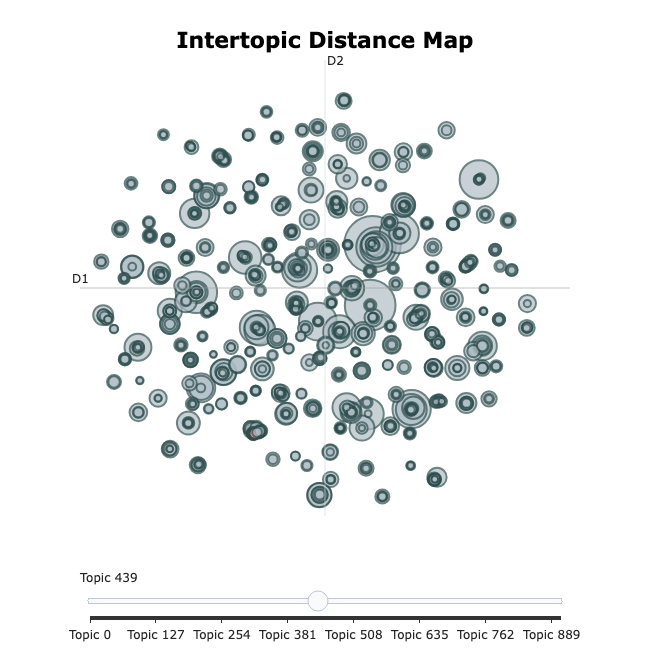
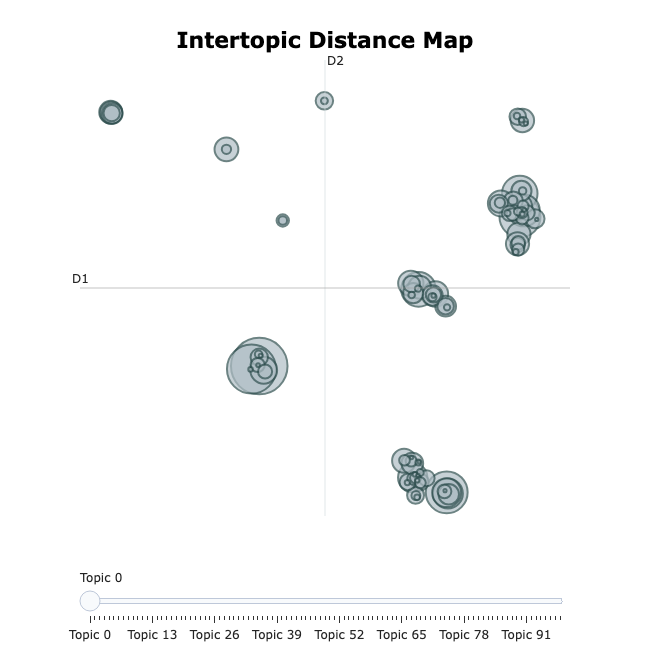
WIP: work on topic modelling.

diff --git a/episodes/02-word_representations.md b/episodes/02-word_representations.md
@@ -652,14 +652,16 @@ While Word2vec models typically perform better with large datasets containing mi
 
 ## Topic Modelling
 
-### What is a Topic?
 
 Another perspective on exploring a document collection is topic modelling.
 This approach aims to discover which topics occur in these documents, bot.
 
-A proper linguistic definition of the abstract concept of _topic_ is difficult because "what is being talked about" in a sentence or a document is not fully represented through specific words, but is _latent_ through context and interpretation.
+### What is a Topic?
 
-In this context, however, a topic is typically represented as a weighted list of _words_ like this:
+A proper linguistic definition of the abstract concept of _topic_ is difficult.
+The definition of "what is being talked about" in a sentence or a paragraph is not fully represented through specific words, but is subject to broader context and interpretation.
+
+For the sake of modelling, however, a topic is typically represented as a weighted list of _words_ like this:
 
 | Topic 1 | Topic 2 | Topic ... |
 | ------- | ------- | --- |
@@ -667,7 +669,7 @@ In this context, however, a topic is typically represented as a weighted list of
 | dog     | car     | ... |
 | ...     | ...     | ... |
 
-A document, on the other hand, is represented as a weighted list of _topics_, for instance:
+A text, on the other hand, is represented as a weighted list of _topics_, for instance:
 
 | Document 1 | Document 2 | Document ... |
 | ---------- | ---------- | ------------ |
@@ -675,20 +677,31 @@ A document, on the other hand, is represented as a weighted list of _topics_, fo
 | Topic 1    | Topic 3    | ... |
 | Topic 2    | Topic 5    | ... |
 
+The term `document` is equally under-specified in this context.
+A topic model typically uses sentences or paragraphs to approximate topics.
+This is partly due to computational constraints: processing longer documents requires significantly more processing power and memory.
+
+Another benefit of smaller text units come from linguistic insights: topics tend to be most consistent on the level of sentences or paragraphs, while they vary throughout a longer text.
+While topic models do allow for texts to convey multiple topics, a model learns best if the topics are separated from each other as clearly as possible.
+
 ::: callout
 
 ### Unsupervised Learning and Self-Supervised Learning
 
-In machine learning terminology, Topic Modelling algorithms apply _Unsupervised Learning_ because they do not rely on any human annotations about the data.
-Instead, they form _clusters_ by grouping similar data together.
-Algorithms differ in how they measure similarity and how they form clusters.
+In machine learning terminology, topic modelling algorithms apply _unsupervised learning_:
+they do not rely on any human annotations about the data that could be used to _supervise_ the modelling process.
+Instead, topic modelling forms _clusters_ of data points by grouping similar documents together.
+
+Algorithms widely differ in how they measure similarity and how they form clusters.
+Regardless, topic modelling algorithms have been applied in domains unrelated to linguistics, like [biological](https://link.springer.com/article/10.1007/s10661-025-14291-0) and [climate research](https://cnrs.hal.science/hal-04484617v1/file/Article_CMIP6_LDA-2.pdf).
 
 :::
 
 ### Model Training
 
-There are various implementations of topic modelling, such as LDA (_Latent Dirichlet Allocation_).
-It represents both topics and documents as probability distributions across words and topics respectively, based on word co-ocurrences in the training data.
+There are various implementations of topic modelling.
+Before modern language models were available, models based on word co-occurrences were dominant, most prominently as LDA (_Latent Dirichlet Allocation_).
+It represents both topics and documents as probability distributions across words and topics respectively, based on word frequencies and distributions in the training data.
 
 ::: callout
 
@@ -705,9 +718,10 @@ As opposed to count-based models, the underlying language models generate word r
 
 :::
 
-An approach that makes use of BERT (or other) language models is [BERTopic](https://maartengr.github.io/BERTopic/index.html) that has been installed as part of the [setup instructions](../learners/setup.md).
+[BERTopic](https://maartengr.github.io/BERTopic/index.html) (installed during this lesson's [setup](../learners/setup.md)), on the other hand, makes use of language models like BERT, that have been trained independently of the document collection at hand.
+Language models can provide contextual knowledge that is not explicit in a specific document collection and therefore leads to better results in most cases.
 
-We build our first topic model on the same data as above, hence we can reuse the preprocessed data:
+To build our first topic model on the same data as above, we reuse the preprocessed data:
 
 ```python
 DATA_DIR = Path("data")
@@ -717,19 +731,22 @@ sentences = [line.strip() for line in open(PROCESSED_FILE, 'r')]
 sentences[:5]
 ```
 
-Initialize and train the the topic model.
-This step will take a few minutes; it downloads a language model and will train the topic model:
+### Train a Topic Model
+
+The following commands initialize a `BERTopic` object and train it.
+Before the first training run, it downloads the language model; this and the training itself will take a few minutes.
 
 ```python
 from bertopic import BERTopic
 
-N_SENTENCES = 1000
+# TODO: determine good number based on full data
+N_SENTENCES = 100000
 
-topic_model = BERTopic()
-topics, probs = topic_model.fit_transform(sentences[:1000])
+topic_model = BERTopic(nr_topics=100)
+topics, probs = topic_model.fit_transform(sentences[:N_SENTENCES])
 
 Loading weights: 100%|██████████| 103/103 [00:00<00:00, 7405.86it/s]
-BertModel LOAD REPORT[0m from: sentence-transformers/all-MiniLM-L6-v2
+BertModel LOAD REPORT from: sentence-transformers/all-MiniLM-L6-v2
 Key                     | Status     |  | 
 ------------------------+------------+--+-
 embeddings.position_ids | UNEXPECTED |  | 
@@ -738,20 +755,31 @@ Notes:
 - UNEXPECTED:	can be ignored when loading from different task/architecture; not ok if you expect identical arch.
 ```
 
-Now check the number of distinct topics the algorithm has identified:
+The `nr_topics=100` argument above is not strictly needed.
+We use it in this example to keep the output manageable, because without the default settings result in approximately 900 different topics on this dataset.
+
+Output the topics that the algorithm has identified:
 
 ```python
 topic_model.get_topic_info()
 
 	Topic	Count	Name	Representation	Representative_Docs
-0	-1	21717	-1_light_face_carrie_room	[light, face, carrie, room, life, eyes, little...	[happened fine sense near view begun pay, true...
-1	0	792	0_mary_mistress_deborah_contrary	[mary, mistress, deborah, contrary, india, sai...	[said mary, said mary, mary mary mary]
-2	1	636	1_ship_boat_sea_captain	[ship, boat, sea, captain, hispaniola, island,...	[stockade narrative continued doctor ship aban...
-...
-906	905	10	905_wanted_wants_sure_thing	[wanted, wants, sure, thing, oh, , , , , ]	[wanted, wanted, wanted]
+0	-1	21788	-1_eyes_little_time_man	[eyes, little, time, man, like, face, life, ro...	[good man true seen better man, young man mome...
+1	0	2968	0_mary_gloria_edna_miss	[mary, gloria, edna, miss, madame, gostrey, ma...	[gloria, mary, said mary]
+2	1	2124	1_dorian_henry_colin_ralph	[dorian, henry, colin, ralph, lord, denham, ro...	[lord henry looked table, know answered lord h...
+3	2	2077	2_yes_oh_ah_eh	[yes, oh, ah, eh, glad, right, better, god, su...	[oh yes, oh yes, oh yes]
+4	3	1625	3_katharine_carrie_cassandra_said	[katharine, carrie, cassandra, said, william, ...	[think katharine, katharine, katharine]
+...	...	...	...	...	...
+95	94	16	94_isabella_prison_quadroon_sold	[isabella, prison, quadroon, sold, previous, u...	[immediately took daughter aside informed prev...
+96	95	12	95_foreman_workshop_ogre_motioning	[foreman, workshop, ogre, motioning, gait, bar...	[head foreman round stopped machine, foreman, ...
+97	96	12	96_ames_superiority_funniest_thorne	[ames, superiority, funniest, thorne, dora, sa...	[going asked ames, said ames, ames]
+98	97	11	97_clatter_bang_scatter_crash	[clatter, bang, scatter, crash, lads, dogs, fi...	[clatter clatter clatter bang, clatter clatter...
+99	98	11	98_entanglement_ensue_faithlessness_repugnant	[entanglement, ensue, faithlessness, repugnant...	[entanglement carrie anxious change sort, carr...
 ```
 
-The number of topics should be approximately the same (906), but probably appear in a different order.
+Due to the random initialization, the topic modelling algorithm is not entirely deterministic.
+Therefore, the exact ordering and representations of the topics can be slightly different for each run.
+
 For each topic, you see:
 
 1. `Count`: the number of topics in which this topic is prevalent
@@ -759,7 +787,9 @@ For each topic, you see:
 3. `Representation`: a list of the topic's most representative words
 4. `Representative_Docs`: the topic's three most representative documents from the training data.
 
-The first topic (-1) is a special case: the algorithms gathers outliers that it could not fit into any of the other topics. It is the most frequent topic in most text collections, and its representative words are typically a list of unconnected words.
+The first topic (`-1`) is a special case: the algorithms gathers outliers that it could not fit into any of the other topics. It is the most frequent topic in most text collections, and its representative words are typically a list of unconnected words.
+
+### Visualization and Interpretation
 
 The following command generates an interactive graph that visualizes the sizes and the relations between the topics:
 
@@ -769,27 +799,42 @@ topic_model.visualize_topics()
 
 ![](fig/02-topics.png)
 
-During the model training, all instances from the data have been assigned to a topic distribution.
-But you can also apply the model on previously unseen texts and assign a topic distribution to them:
+This command visualizes the hierarchical relations between topics:
 
 ```python
-topic, prob = topic_model.transform(["A text about gloves."])
-print(topic, prob)
-[3] [1.]
+topic_model.visualize_hierarchy()
 ```
 
-This example was assigned to topic 3, with a probability of 1.0.
+![](fig/02-topics-hierarchy.png)
 
-Topic modelling works on the words and their immediate context.
-However, you will notice that they do not always perfectly reflect all aspects of your collection, your research questions, or broader knowledge.
-Therefore, BERTopic allows you to manually refine the topics it has created.
-
-A common case is that multiple topics represent very similar underlying concepts with different words.
-You can merge such topics by specifying their topic indices:
+To find topics that are associated to a particular term, use the `.find_topics()` method:
 
 ```python
-topic_model.merge_topics(sentences, [161, 29])
+topics, probs = topic_model.find_topics("sea")
+print(topics)
 ```
+
+Visualize the terms of the topics found:
+```python
+topic_model.visualize_barchart(topics)
+```
+
+![](fig/02-topics-sea.png)
+
+During the model training, all texts in the data have been assigned to a topic distribution.
+You can also use the model to infer the topics of previously unseen texts based on the same model:
+
+```python
+topics, probs = topic_model.transform(["A short text about scientific discoveries"])
+print(topics, probs)
+[31] [0.47929027]
+```
+
+This example was assigned to topic 31, with a probability of 0.479.
+Again, these numbers will be slightly different per run.
+The model can even assign multiple topics to a text, the `topics` and `probs` lists contain the according number of values.
+
+
 
 ::: challenge
 
@@ -813,31 +858,43 @@ TODO
 ### Step by Step
 
 BERTopic follows a recipe of pre-defined steps.
-Each of them is variable and impacts the eventual outcomes. Therefore, it provides reasonable defaults that might or might not be optimal for your use case.
+Each of them is variable and impacts the eventual outcomes.
+The package provides reasonable defaults that typically provide a good starting point.
+Understanding the components of the algorithm allows you to adapt it to specific datasets or research questions.
 
 #### 1. Document Embeddings
 
-For each document, a semantic vector representation is computed.
-The result is a vector of a few hundred to thousand dimensions.
+In the first step, we need a vector representation of each document that reflects their content.
 BERTopic makes use of existing models for that purpose so that the specifics depend on the chosen model.
-By default, it uses a [Sentence Transformers](https://sbert.net/) model called [`all-MiniLM-L6-v2`](https://huggingface.co/sentence-transformers/all-MiniLM-L6-v2). It generates vectors with 384 dimensions, and can handle English texts with a maximum length of 256 word pieces; where a word comprises one or multiple pieces.
+By default, it uses a [Sentence Transformers](https://sbert.net/) model called [`all-MiniLM-L6-v2`](https://huggingface.co/sentence-transformers/all-MiniLM-L6-v2), a model that has been trained to generate semantic representations for English texts with a maximum length of 256 word pieces; where each token comprises one or multiple pieces.
+This model outputs vectors with 384 dimensions.
+The distance between document-vectors in the vector space reflect the semantic similarity of the respective texts.
 
-To adapt to other languages, longer texts, faster processing and different algorithms, BERTopic can use models through existing frameworks including [HuggingFace](https://huggingface.co/), spaCy, Gensim and most other popular NLP frameworks. Additionally, you can provide pre-computed embeddings per document.
+Alternative Sentence Transformer models that are available on the [HuggingFace](https://huggingface.co/) platform can be used through the `embedding_model` parameter in the `BERTopic` object initialization.
+BERTopic can also use models provided by other popular NLP frameworks, including spaCy and Gensim.
+Additionally, you can provide pre-computed embeddings per document.
 
-Alternative Sentence Transformer models that are available on the HuggingFace platform can be used through the `embedding_model` parameter upon initialization.
-This model, for instance, is recommended for multi-lingual corpora or languages for which no specific model is available:
+By choosing a different language model you can adapt the BERTopic pipeline when other languages than English, longer texts, faster processing, higher accuracy, or different modelling algorithms are needed.
+
+For corpora in which multiple languages occur, or languages for which no specific model is available, the `paraphrase-multilingual-MiniLM-L12-v2` model is recommended.
+It is loaded automatically, if `language='multilingual'` is passed to the `BERTopic` object:
+
+```python
+topic_model = BERTopic(language='multilingual')
+```
+
+Any other model available on the HuggingFace platform can be loaded via `embedding_model` -- overriding the `language` argument:
 
 ```python
 topic_model = BERTopic(embedding_model='paraphrase-multilingual-MiniLM-L12-v2')
 ```
 
-The same parameter is used for models from other platforms.
-In that case, they need to be initialized separately and passed as objects like this:
+The same parameter is used for models from other platforms too, but those models need to be initialized separately and passed as objects like this:
 
 ```python
 import spacy
 
-# only the embedding step is used, skip all others to save processing time:
+# skip unused processing steps to save time:
 unused_components = ['tagger', 'parser', 'ner', 'attribute_ruler', 'lemmatizer']
 nlp = spacy.load("en_core_web_md", exclude=unused_components)
 
@@ -847,31 +904,31 @@ topic_model = BERTopic(embedding_model=nlp)
 #### 2. Reduce dimensionality
 
 The document embeddings computed in the previous step are quite large.
-To make the following computations less costly for time and resources, they are now projected to a lower dimensionality.
+To make the subsequent computations less costly regarding time and resources, they are projected to a lower dimensionality.
 
-The [UMAP](https://umap-learn.readthedocs.io/en/latest/) algorithm has been developed to project vectors to a lower dimensionality while preserving their mutual distance.
-For instance, the 384-dimensional vectors generated by the `all-MiniLM-L6-v2` model in the first step could be represented with 5 dimensions per documents.
+The [UMAP](https://umap-learn.readthedocs.io/en/latest/) algorithm has been developed to project vectors to a lower dimensionality while largely preserving their mutual distance -- this is the crucial property used in the next following steps.
+For instance, the 384-dimensional vectors generated by the `all-MiniLM-L6-v2` model in the first step will be represented with five dimensions per documents.
 
-Again, BERTopic offers using alternative algorithms like PCA (_Principal Component Analysis_).
-Furthermore, this step can be skipped entirely; however, that will require much more time and resources in the following steps.
+Again, BERTopic offers using alternative algorithms like PCA (_Principal Component Analysis_), but UMAP provides the state-of-the-art algorithm for this specific task.
+Furthermore, this step could be skipped entirely; however, that will require much more time and resources in the following steps.
 
 By default, the UMAP model for transforming the document embeddings from step 1 to a lower dimensionality is computed on-the-fly.
-However, the `umap_model` argument allows the specification of another model that has been pre-computed:
+The `umap_model` argument allows the specification of another model that has been pre-computed:
 
 ```python
 my_umap_model = ...
 topic_model = BERTopic(umap_model=my_umap_model)
 ```
 
-Any object can be passed here, as long as it has a `.transform(X)` method that takes a vector `X` as input, and outputs a vector.
+In principle, any object can be passed here, as long as it has a `.transform(X)` method that takes a vector `X` as input, and outputs a vector.
 
 #### 3. Clustering
 
-Based on the representations computed in the previous steps, the documents are grouped into clusters by mutual similarity.
-There is no optimal clustering, and different algorithms come to different results.
+Based on the representations computed in the previous steps, the documents are grouped into clusters by mutual distance -- hence the importance of preserving that property when reducing the dimensionality in step 2.
+
 By default, BERTopic uses [HDBScan](https://hdbscan.readthedocs.io/en/latest/index.html) (_Hierarchical Density-Based Spatial Clustering of Applications with Noise_).
 
-Again, you can customise that option and use all clustering algorithms provided by [scikit-learn](https://scikit-learn.org/stable/modules/clustering.html#clustering).
+This option is customisable, too; any clustering algorithm provided by [scikit-learn](https://scikit-learn.org/stable/modules/clustering.html#clustering) can be used.
 Initialize the respective object according to its specifics, and pass it to the `hdbscan_model` parameter:
 
 ```python
@@ -882,35 +939,49 @@ cluster_model = KMeans(n_clusters=50)
 topic_model = BERTopic(hdbscan_model=cluster_model)
 ```
 
-#### 4. Topic representation
+Again, however, the default is the best algorithm in most cases.
 
-Finally, the topics need to represented in a way that is readable for humans.
-Across most topic modelling algorithms, this has been done by displaying a list of the most representative per topic.
-BERTopic calculates the representativeness of the cluster words through a class-based adaption of the TF-IDF algorithm, called `c-TD-IDF`.
+#### 4. Topic Representation
 
-A class corresponds to a single cluster here.
-TF-IDF means `Term Frequency - Inverse Document Frequency` and has been used in search and information retrieval applications for decades.
-It weighs the relevancy for a specific word for a document in the context of a document collection, based on two factors:
+Finally, a strong feat of topic modelling is that it extracts topics that are interpretable by humans, as opposed to numeric representations.
+This goal has been approached by displaying a list of the most representative per topic by most topic modelling algorithms, including BERTopic.
+For each topic, it calculates the most representative words through a class-based adaption of the TF-IDF algorithm, called `c-TD-IDF`.
 
-1. How frequently does the term occur in a document? The more frequent a word, the _higher_ is the relevancy score of the word.
-2. In how many other documents does the term occur? The more documents contains a word, the _lower_ the relevancy score of the word.
+TF-IDF means `Term Frequency - Inverse Document Frequency`, a metric that has been used for decades.
+In search and information retrieval applications, TF-IDF estimates the relevancy of a term for a specific document in the context of a document collection, based on two factors:
 
-The class-based adaption interprets each cluster as one document.
-For each word, it computes the cluster-specific TF-IDF values with the same intuition:
+1. How frequently does the term occur in the document at hand? The more frequent a word, the _higher_ its TF-IDF score for the document.
+2. In how many _other_ documents in the collection does the term occur? The more documents contain a word, the _lower_ its TF-IDF score.
 
-1. If a term occurs frequently in a cluster, it gets a _higher_ score.
-2. If a term occurs in many clusters, it gets a _lower_ score.
+The c-TF-IDF adaptation interprets each topic cluster as a class.
+For the score calculation, it views them as a single document and computes the cluster-specific TF-IDF values with the same factors as before:
 
-This allows words to be representative in multiple clusters, for instance `bank` could have a high weight in a money-related topic as well as in a river-related topic.
-At the same time, words that occur universally should get a low score for all clusters for not being topic-specific.
-Nevertheless, words like `the` and `a` might occur so frequently that they still achieve a high score despite being semantically meaningless.
-Therefore, BERTopic removes such stop words by default through a pre-defined list in the word counting phase.
-Again, the stop word list is customisable as well as most other aspects of this phase.
+1. If a term occurs frequently in the documents of a topic, it gets a _higher_ score.
+2. If a term occurs in many topics, it gets a _lower_ score.
+
+As a results, words that only occur in a single topic cluster are considered to be most representative for that topic.
+Neverthless, it allows for the inherent ambiguity of words as they can be relevant for different topics.
+The word `bank`, for instance, could have a high weight in a money-related topic as well as in a river-related topic if it occurs frequently enough in those clusters, but rarely in others.
+
+At the same time, words that occur universally get a low score for all clusters for not being topic-specific.
+Nevertheless, the calculation can suffer under extreme frequencies of words like `the` and `a` in English.
+Therefore, BERTopic removes such stop words by default through a pre-defined list of English stop words.
 
 In our case, however, no action is needed here because stop words have already been removed when the data was preprocessed above.
 
-TODO: model parameters: nr_topics
+### Model Tuning
 
+BERTopic provides numerous parameters to tune its behaviour during all the previously mentioned steps.
+The most important of them are directly accessible through arguments when the `BERTopic` object is initialized.
+
+1. Choose a different language model with `embedding_model`; see the [Document Embeddings](#document-embeddings) section above and the [HuggingFace model hub](https://huggingface.co/models?pipeline_tag=sentence-similarity) for suitable models that can be filtered by language, model size and other parameters.
+2. Control the clustering parameters with
+    1. `nr_topics`: split topic clusters until it reaches exactly the specified number, or use `auto` to use the HDBSCAN algorithm to guess the optimal number of topic clusters.
+    2. `min_cluster_size` or `min_topic_size`: A topic cluster must contain at least the given number of document; otherwise, it is merged with an adjacent cluster. This prevents the formation of topics based on very few data points. The default is `5`.
+
+TODO: more tuning
+
+TODO: final exercise: explore, improve model
 
 ::: keypoints
 -   We can run a preprocessing pipeline to obtain clear words that can be used as features
